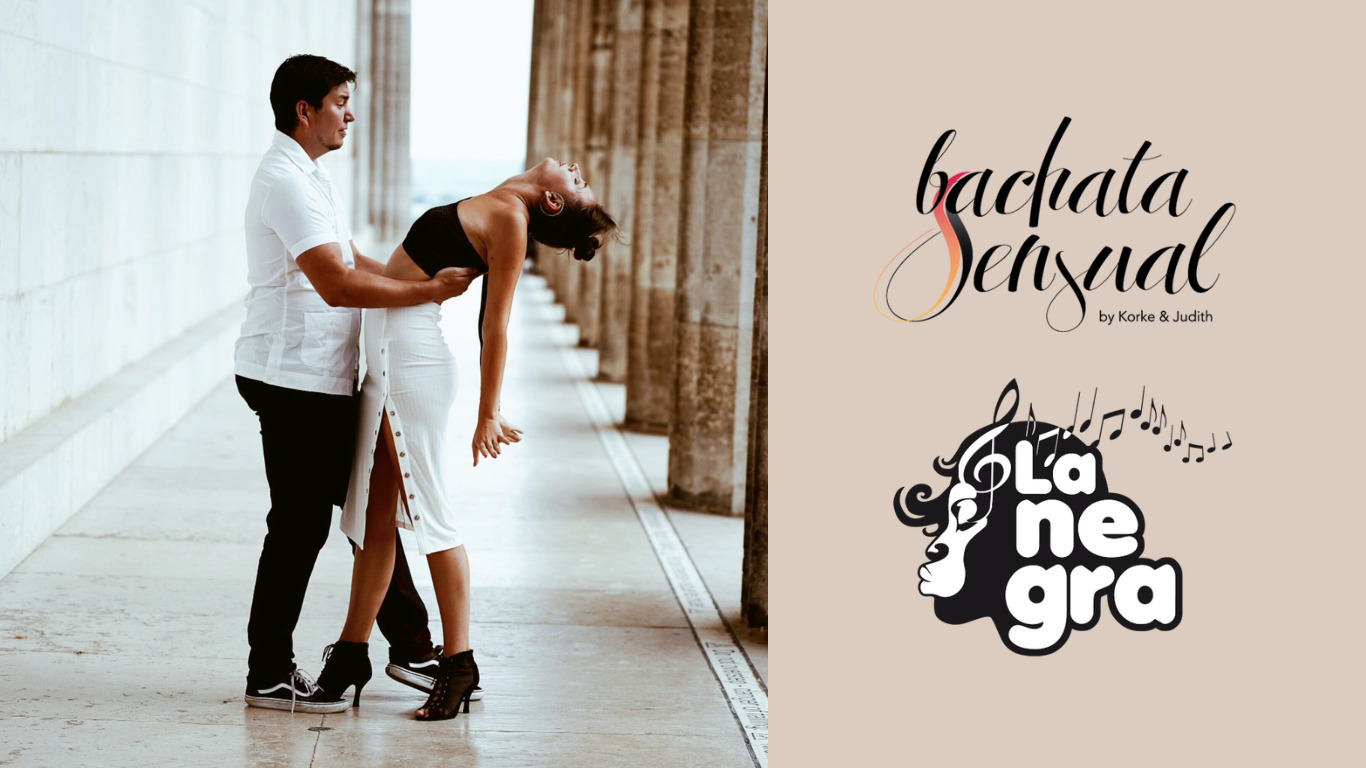
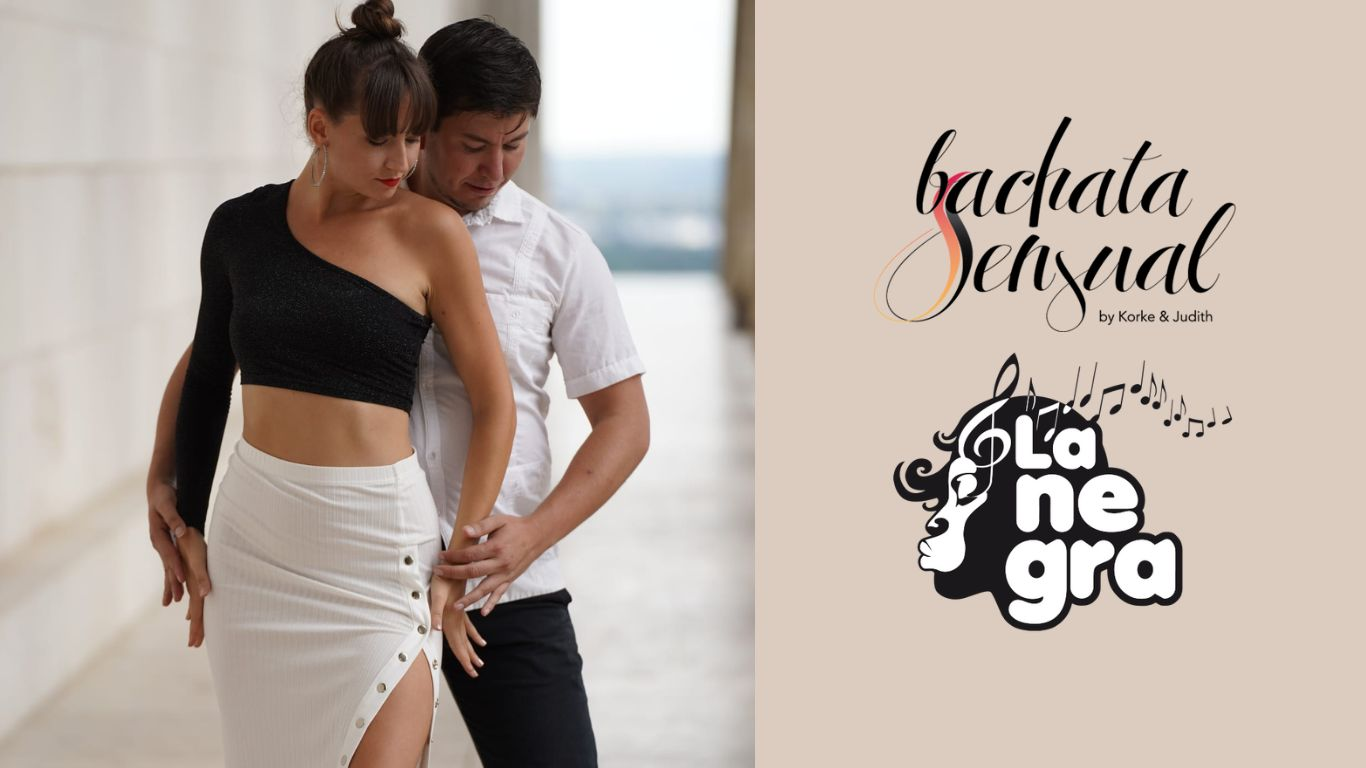
updated color of head and exchanged slide image 2.

diff --git a/index.html b/index.html
@@ -92,7 +92,7 @@
           <div class="carousel-item active" style="background-image: url(assets/img/slide/slide-00.jpeg);">
             <div class="carousel-container">
               <div class="carousel-content">
-                <h2 class="animate__animated animate__fadeInDown"><span>Patricia & Stephan</span> Artists</h2>
+                <h2 class="animate__animated animate__fadeInDown"><span>Willkommen</span></h2>
                 <div>
                   <a href="https://instagram.com/patriciaystephan_bachata"
                     class="btn-menu animate__animated animate__fadeInUp scrollto">Instagram</a>

diff --git a/assets/css/style.css b/assets/css/style.css
@@ -16,11 +16,11 @@ body {
 
 a {
   text-decoration: none;
-  color: #ffb03b;
+  color: #FFF5EB;
 }
 
 a:hover {
-  color: #ffc56e;
+  color: #F4DFD0;
   text-decoration: none;
 }
 
@@ -88,7 +88,7 @@ h6 {
 }
 
 #topbar i {
-  color: #169750;
+  color: #000000;
   line-height: 0;
 }
 
